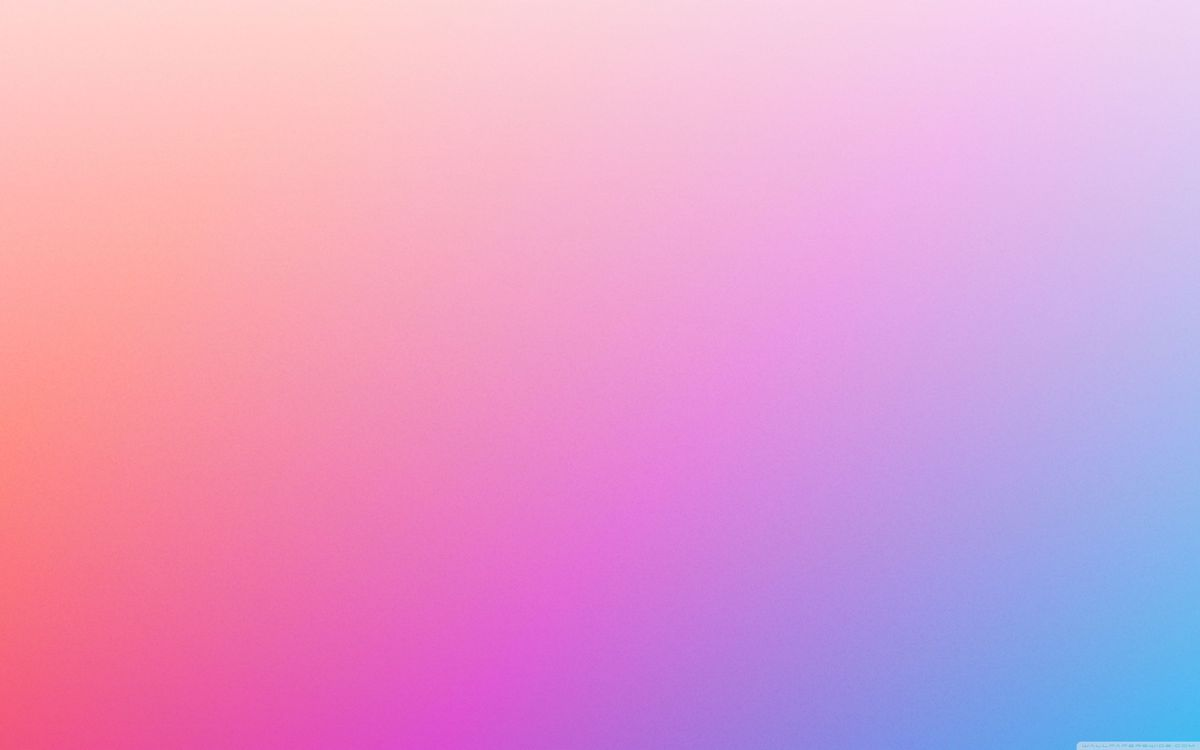
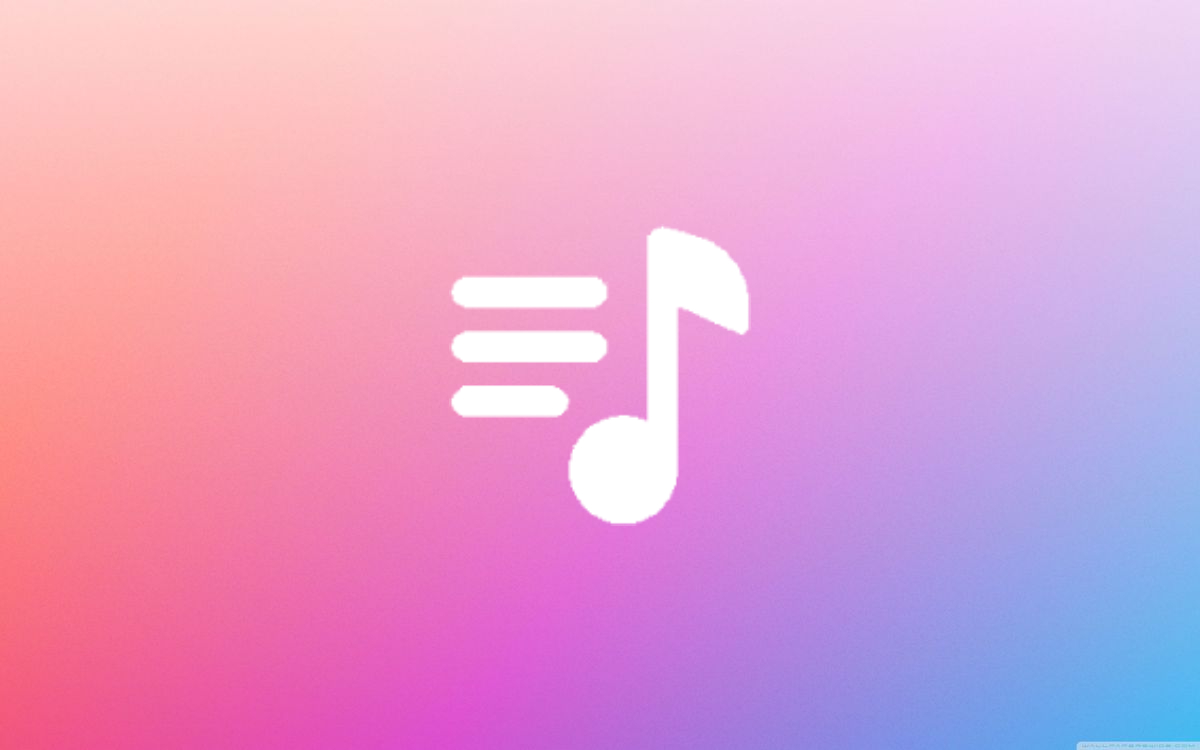
playlist

Changed region(s): [[0.37, 0.3067, 0.6475, 0.7053]]

diff --git a/lib/all_songs.dart b/lib/all_songs.dart
@@ -18,24 +18,38 @@ class AllSongs extends StatefulWidget {
 class _AllSongsState extends State<AllSongs> {
   late TextEditingController controller;
 
+  final excistingPlaylist = SnackBar(
+    content: Text(
+      'Excisting playlist name',
+      style: TextStyle(color: Colors.white),
+    ),
+    backgroundColor: Colors.grey[900],
+  );
+
   final OnAudioQuery audioQuery = OnAudioQuery();
   final AssetsAudioPlayer audioPlayer = AssetsAudioPlayer.withId("0");
   final box = Boxes.getSongsDb();
+  List playlists = [];
 
   List<SongModel> songs = [];
   List<DataModel> mappedSongs = [];
   List<DataModel>? dbSongs = [];
   List<Audio> allSongs = [];
+  List<DataModel> library = [];
+
+  String? playlistName = '';
 
   @override
   void initState() {
     super.initState();
     requestPermission();
     controller = TextEditingController();
+    
   }
 
   @override
   void dispose() {
+    // Clean up the controller when the widget is disposed.
     controller.dispose();
     super.dispose();
   }
@@ -161,9 +175,10 @@ class _AllSongsState extends State<AllSongs> {
                                     trailing: Icon(Icons.add),
                                     onTap: () {
                                       showModalBottomSheet(
+                                        
                                         shape: RoundedRectangleBorder(
                                             borderRadius: BorderRadius.vertical(
-                                                top: Radius.circular(25))),
+                                                top: Radius.circular(20))),
                                         context: context,
                                         builder: (context) => buildSheet(),
                                       );
@@ -284,7 +299,9 @@ class _AllSongsState extends State<AllSongs> {
     );
   }
 
-  Widget buildSheet() => Container(
+  Widget buildSheet() { 
+    playlists = box.keys.toList();
+    return Container(
         padding: EdgeInsets.only(top: 20, bottom: 20),
         child: ListView(
           physics: const BouncingScrollPhysics(),
@@ -309,7 +326,7 @@ class _AllSongsState extends State<AllSongs> {
                       TextButton(
                           onPressed: submit,
                           child: Text(
-                            "SUMBIT",
+                            "CREATE",
                             style: TextStyle(
                               color: Colors.pink[500],
                             ),
@@ -339,9 +356,35 @@ class _AllSongsState extends State<AllSongs> {
                 ),
               ),
             ),
+            ...playlists
+                .map((e) => e!= "musics" ? GestureDetector(
+                    onTap: () {},
+                    child:  libraryList(
+                        child: ListTile(
+                      leading: Container(
+                        height: 50,
+                        width: 50,
+                        decoration: BoxDecoration(
+                          image: DecorationImage(
+                              image: AssetImage("assets/images/searchpre.jpg"),
+                              fit: BoxFit.cover),
+                          borderRadius: BorderRadius.all(Radius.circular(17)),
+                        ),
+                      ),
+                      title: Text(
+                        e.toString(),
+                        style: TextStyle(
+                          fontWeight: FontWeight.bold,
+                        ),
+                      ),
+                    ))
+                    // Text(e.toString())
+                    ) : Container() ) 
+                .toList()
           ],
         ),
       );
+  }
 
   Padding libraryList({required child}) {
     return Padding(
@@ -350,7 +393,25 @@ class _AllSongsState extends State<AllSongs> {
   }
 
   void submit() {
-    Navigator.of(context).pop();
+    playlistName = controller.text;
+
+    print(playlists);
+    List? excistingName = [];
+    if (playlists.length > 0) {
+      excistingName =
+          playlists.where((element) => element == playlistName).toList();
+    }
+
+    if (playlistName != '' && excistingName.length == 0) {
+      box.put(playlistName, library);
+      Navigator.of(context).pop();
+      setState(() {
+        
+      });
+    } else {
+      ScaffoldMessenger.of(context).showSnackBar(excistingPlaylist);
+    }
+
     controller.clear();
   }
 }

diff --git a/lib/library_screen.dart b/lib/library_screen.dart
@@ -53,12 +53,60 @@ class _LibraryScreenState extends State<LibraryScreen> {
               ],
             ),
           ),
-          libraryList(
-              title: "Create Playlist",
-            
-              leadIcon: Icons.add,
-              leadClr: Color(0xFF606060)),
-          libraryList(
+            libraryList(
+              child: ListTile(
+                onTap: () => showDialog(
+                  context: context,
+                  builder: (context) => AlertDialog(
+                    title: Text(
+                      "Give your playlist a name",
+                      textAlign: TextAlign.center,
+                      style: TextStyle(fontSize: 16),
+                    ),
+                    content: TextField(
+                      // controller: controller,
+                      autofocus: true,
+                      cursorRadius: const Radius.circular(50),
+                      cursorColor: Colors.grey,
+                    ),
+                    actions: [
+                      TextButton(
+                          onPressed: (){
+                            Navigator.of(context).pop();
+                          },
+                          child: Text(
+                            "CREATE",
+                            style: TextStyle(
+                              color: Colors.pink[500],
+                            ),
+                          ))
+                    ],
+                  ),
+                ),
+                leading: Container(
+                  height: 50,
+                  width: 50,
+                  decoration: BoxDecoration(
+                    color: Color(0xFF606060),
+                    borderRadius: BorderRadius.all(Radius.circular(17)),
+                  ),
+                  child: Center(
+                      child: Icon(
+                    Icons.add,
+                    color: Colors.white,
+                    size: 28,
+                  )),
+                ),
+                title: Text(
+                  "Create Playlist",
+                  style: TextStyle(
+                    fontWeight: FontWeight.bold,
+                  ),
+                ),
+              ),
+            ),
+
+          libraryLists(
               title: "Liked Songs",
          
               leadIcon: Icons.favorite_border_rounded,
@@ -70,7 +118,7 @@ class _LibraryScreenState extends State<LibraryScreen> {
     );
   }
 
-  Padding libraryList(
+  Padding libraryLists(
       {required title,
  
       leadIcon = Icons.music_note_rounded,
@@ -108,5 +156,11 @@ class _LibraryScreenState extends State<LibraryScreen> {
         ),
       ),
     );
+  }
+
+    Padding libraryList({required child}) {
+    return Padding(
+        padding: const EdgeInsets.only(left: 5, right: 5, bottom: 10),
+        child: child);
   }
 }

diff --git a/lib/search_screen.dart b/lib/search_screen.dart
@@ -65,16 +65,20 @@ class _SearchScreenState extends State<SearchScreen> {
               ),
             ],
           ),
-
-          searchSongList(title: "Song Title",tail: Icons.play_arrow_rounded,),
-          searchSongList(title: "Song Title",tail: Icons.play_arrow_rounded,)
-
+          searchSongList(
+            title: "Song Title",
+            tail: Icons.play_arrow_rounded,
+          ),
+          searchSongList(
+            title: "Song Title",
+            tail: Icons.play_arrow_rounded,
+          )
         ],
       ),
     );
   }
 
-    Padding searchSongList(
+  Padding searchSongList(
       {required title,
       leadIcon = Icons.music_note_rounded,
       double leadSize = 28,
@@ -87,18 +91,12 @@ class _SearchScreenState extends State<SearchScreen> {
           height: 50,
           width: 50,
           decoration: BoxDecoration(
-            image: DecorationImage(image: AssetImage("assets/images/searchpre.jpg"),fit: BoxFit.cover),
+            image: DecorationImage(
+                image: AssetImage("assets/images/searchpre.jpg"),
+                fit: BoxFit.cover),
             color: leadClr,
             borderRadius: BorderRadius.all(Radius.circular(17)),
-            
           ),
-          
-          child: Center(
-              child: Icon(
-            leadIcon,
-            color: Colors.white,
-            size: leadSize,
-          )),
         ),
         title: Text(
           title,

diff --git a/lib/main.dart b/lib/main.dart
@@ -3,19 +3,13 @@ import 'package:hive/hive.dart';
 import 'database/data_model.dart';
 import 'home_screen.dart';
 import 'package:hive_flutter/hive_flutter.dart';
-// import 'package:shared_preferences/shared_preferences.dart';
 
-
-
-void main () async{
+void main() async {
   WidgetsFlutterBinding.ensureInitialized();
-  
+
   await Hive.initFlutter();
   Hive.registerAdapter(DataModelAdapter());
   await Hive.openBox<List<DataModel>>("songData");
-
-
-  
 
   runApp(MyApp());
 }
